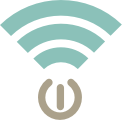
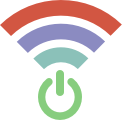
Finetuning GUi
big button party mode

diff --git a/src/webui2/templates/things.html b/src/webui2/templates/things.html
@@ -88,11 +88,11 @@
                     <h3>Network Status</h3>
                     {% if cur_state == "on" %}
                     <a href="/cmd?op=ALL_THINGS_OFF">
-                        <img src="static/img/Big_BTN.png" width="64" class="center-block" alt="network access enabled" title="disable network access for all things">
+                        <img src="static/img/Big_BTN_ON.png" width="64" class="center-block" alt="network access enabled" title="disable network access for all things">
                     </a>
                     {% elif cur_state == "off" %}
                     <a href="/cmd?op=ALL_THINGS_ON">
-                        <img src="static/img/partymode_OFF.png" width="64" class="center-block" alt="network access enabled" title="enable network access for all things">
+                        <img src="static/img/Big_BTN_OFF.png" width="64" class="center-block" alt="network access enabled" title="enable network access for all things">
                     </a>
                     {% endif %}
                 </div>
@@ -100,11 +100,11 @@
                     <h3>Party mode</h3>
                     {% if party_mode == "on" %}
                     <a href="/cmd?op=PARTY_MODE_OFF">
-                        <img src="static/img/partymode_ON.png" width="64" class="center-block" alt="party mode enabled" title="restrict the access on the network to only enabled things">
+                        <img src="static/img/OpenAccess_ON_lw.png" width="64" class="center-block" alt="party mode enabled" title="restrict the access on the network to only enabled things">
                     </a>
                     {% elif party_mode == "off" %}
                     <a href="/cmd?op=PARTY_MODE_ON">
-                        <img src="static/img/partymode_OFF.png" width="64" class="center-block" alt="party mode disabled" title="enable the network at all things and ENJOY THE BEER !!!!">
+                        <img src="static/img/OpenAccess_OFF_lw.png" width="64" class="center-block" alt="party mode disabled" title="enable the network at all things and ENJOY THE BEER !!!!">
                     </a>
                     {% endif %}
                 </div>
